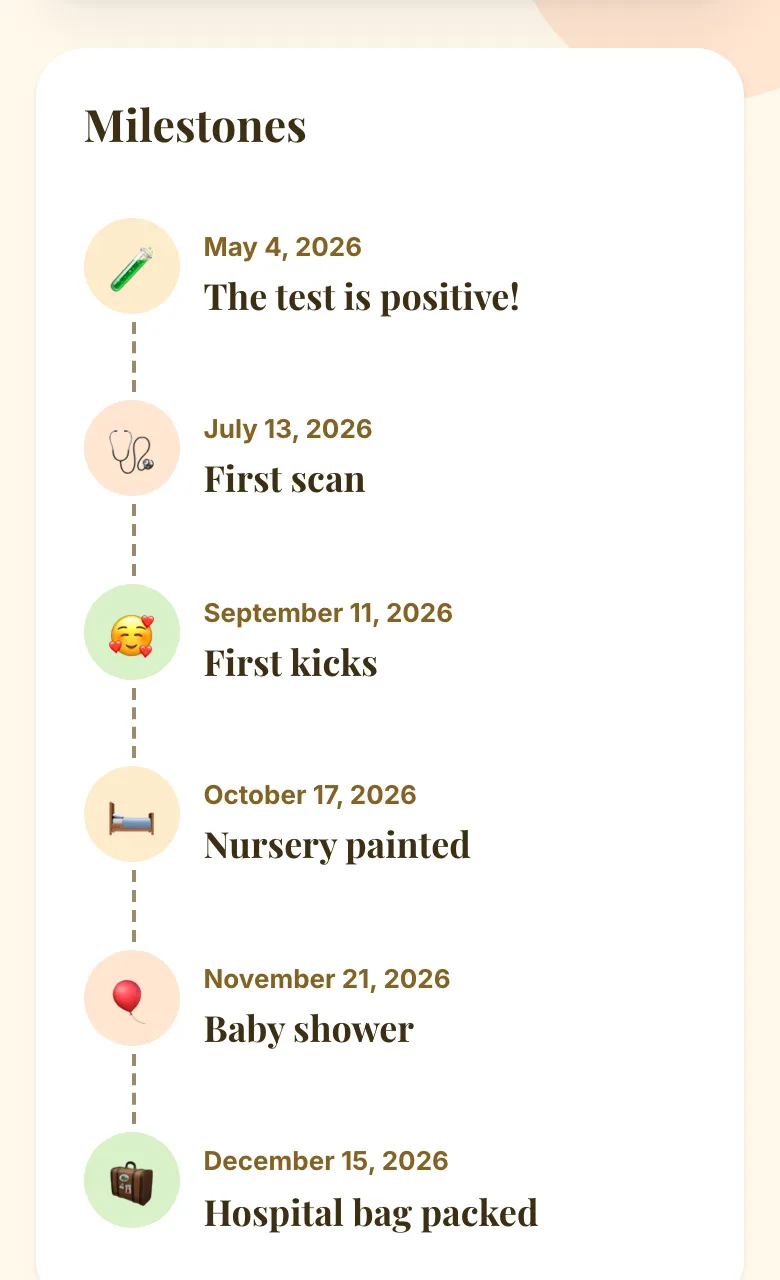
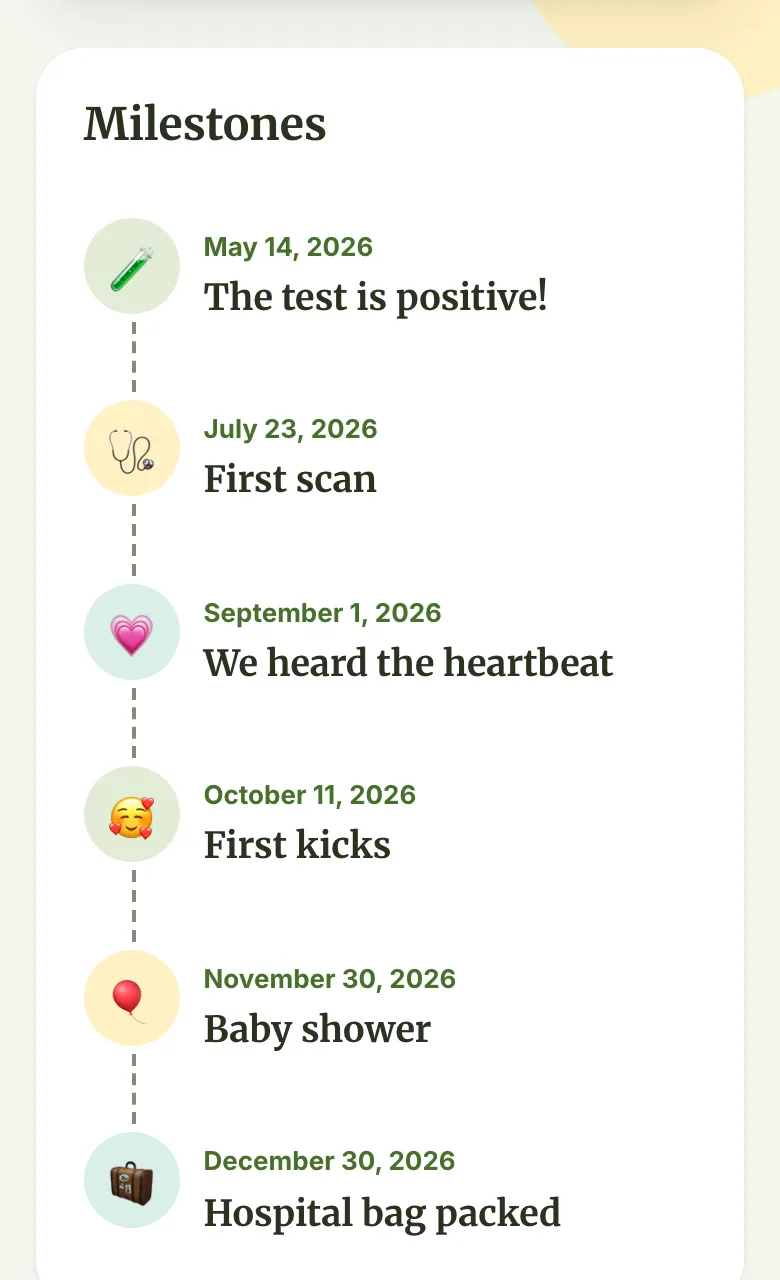
Give each home page language its own deck
The English home page shows English names and pages, the Italian one
Italian names and pages. Nine scenes build one card per language, so both
decks cover every Palette, Font, state and the Privacy settings.

diff --git a/src/lib/homeDeck.ts b/src/lib/homeDeck.ts
@@ -1,158 +1,167 @@
+import type { Lang } from './i18n.ts';
+
 /**
- * The cards of the home page's deck: each one a picture of a real Public page,
- * taken by `npm run deck` from a Site seeded with these values. The deck shows
- * every Palette and Font, the Waiting and Born states, Milestones and the
- * Privacy settings, in Italian and English, and leaves out the days past the
- * Due date: that page stays a surprise.
+ * The home page's deck: pictures of real Public pages, taken by `npm run deck`
+ * from Sites seeded with these values. Each Platform language has its own
+ * cards, with its own names and Public pages, and each deck shows every
+ * Palette and Font, the Waiting and Born states, Milestones and the Privacy
+ * settings. No card is past its Due date: that page stays a surprise.
  */
 
-export type HomeDeckCard = {
-  slug: string;
-  babyName: string;
+type PerLanguage = Record<Lang, string>;
+
+type Scene = {
+  babyName: PerLanguage;
   sex: 'female' | 'male';
-  languages: ('it' | 'en')[];
   showName: boolean;
   showSex: boolean;
   dueInDays: number;
   bornDaysAgo?: number;
   weight?: number;
   lengthCm?: number;
-  birthMessage?: { it?: string; en?: string };
-  milestones?: {
-    emoji: string;
-    label: { it?: string; en?: string };
-    inDays: number;
-    place?: { address: string; lat: number; lon: number };
-  }[];
-  pageName?: { it?: string; en?: string };
+  birthMessage?: PerLanguage;
+  milestones?: { emoji: string; label: PerLanguage; inDays: number }[];
+  pageName?: PerLanguage;
   theme: { palette: string; font: string };
   /** The picture starts at the Milestones, not at the top of the page. */
   atMilestones?: boolean;
 };
 
-const shown = { showName: true, showSex: true };
-const it = ['it'] as HomeDeckCard['languages'];
-const en = ['en'] as HomeDeckCard['languages'];
+export type HomeDeckCard = Omit<Scene, 'babyName' | 'birthMessage' | 'milestones' | 'pageName'> & {
+  slug: string;
+  babyName: string;
+  lang: Lang;
+  languages: Lang[];
+  birthMessage?: Partial<PerLanguage>;
+  milestones?: { emoji: string; label: Partial<PerLanguage>; inDays: number }[];
+  pageName?: Partial<PerLanguage>;
+};
 
-export const HOME_DECK_CARDS: HomeDeckCard[] = [
+const shown = { showName: true, showSex: true };
+
+const SCENES: Scene[] = [
   {
     ...shown,
-    slug: 'deck-emma',
-    babyName: 'Emma',
+    babyName: { en: 'Emma', it: 'Sofia' },
     sex: 'female',
-    languages: en,
     dueInDays: 42,
-    pageName: { en: 'Anna & Tom' },
+    pageName: { en: 'Anna & Tom', it: 'Anna e Tommaso' },
     theme: { palette: 'blush', font: 'quicksand' },
   },
   {
     ...shown,
-    slug: 'deck-leonardo',
-    babyName: 'Leonardo',
+    babyName: { en: 'Oliver', it: 'Leonardo' },
     sex: 'male',
-    languages: it,
     dueInDays: -2,
     bornDaysAgo: 3,
     weight: 3480,
     lengthCm: 52,
-    birthMessage: { it: 'Mamma e bimbo stanno benissimo!' },
-    pageName: { it: 'Chiara e Marco' },
+    birthMessage: { en: 'Mum and baby are doing great!', it: 'Mamma e bimbo stanno benissimo!' },
+    pageName: { en: 'Grace & Jack', it: 'Chiara e Marco' },
     theme: { palette: 'sky', font: 'playfair' },
   },
   {
     ...shown,
-    slug: 'deck-giulia',
-    babyName: 'Giulia',
+    babyName: { en: 'Charlotte', it: 'Giulia' },
     sex: 'female',
-    languages: it,
     dueInDays: 75,
     milestones: [
-      { emoji: '🧪', label: { it: 'Il test è positivo!' }, inDays: -170 },
-      { emoji: '🩺', label: { it: 'Prima ecografia' }, inDays: -100 },
-      { emoji: '💗', label: { it: 'Abbiamo sentito il cuore' }, inDays: -60 },
-      { emoji: '🥰', label: { it: 'Primi calcetti' }, inDays: -20 },
-      { emoji: '🎈', label: { it: 'Baby shower' }, inDays: 30 },
-      { emoji: '🧳', label: { it: 'Valigia pronta' }, inDays: 60 },
+      { emoji: '🧪', label: { en: 'The test is positive!', it: 'Il test è positivo!' }, inDays: -170 },
+      { emoji: '🩺', label: { en: 'First scan', it: 'Prima ecografia' }, inDays: -100 },
+      { emoji: '💗', label: { en: 'We heard the heartbeat', it: 'Abbiamo sentito il cuore' }, inDays: -60 },
+      { emoji: '🥰', label: { en: 'First kicks', it: 'Primi calcetti' }, inDays: -20 },
+      { emoji: '🎈', label: { en: 'Baby shower', it: 'Baby shower' }, inDays: 30 },
+      { emoji: '🧳', label: { en: 'Hospital bag packed', it: 'Valigia pronta' }, inDays: 60 },
     ],
     atMilestones: true,
     theme: { palette: 'sage', font: 'merriweather' },
   },
   {
     ...shown,
-    slug: 'deck-oliver',
-    babyName: 'Oliver',
+    babyName: { en: 'Noah', it: 'Tommaso' },
     sex: 'male',
-    languages: en,
     dueInDays: 1,
     bornDaysAgo: 10,
     weight: 3620,
     lengthCm: 51,
-    birthMessage: { en: 'Everyone is doing well, and nobody is sleeping.' },
-    pageName: { en: 'Grace & Jack' },
+    birthMessage: { en: 'Everyone is doing well, and nobody is sleeping.', it: 'Stiamo tutti bene, ma nessuno dorme.' },
+    pageName: { en: 'Lily & Sam', it: 'Marta e Luca' },
     theme: { palette: 'midnight', font: 'poppins' },
   },
   {
-    slug: 'deck-secret',
-    babyName: 'Bianca',
+    babyName: { en: 'Alice', it: 'Bianca' },
     sex: 'female',
-    languages: it,
     showName: false,
     showSex: false,
     dueInDays: 28,
-    pageName: { it: 'Elena e Paolo' },
+    pageName: { en: 'Ella & Ben', it: 'Elena e Paolo' },
     theme: { palette: 'lavender', font: 'inter' },
   },
   {
     ...shown,
-    slug: 'deck-charlotte',
-    babyName: 'Charlotte',
+    babyName: { en: 'Olivia', it: 'Ginevra' },
     sex: 'female',
-    languages: en,
     dueInDays: 60,
     milestones: [
-      { emoji: '🧪', label: { en: 'The test is positive!' }, inDays: -180 },
-      { emoji: '🩺', label: { en: 'First scan' }, inDays: -110 },
-      { emoji: '🥰', label: { en: 'First kicks' }, inDays: -50 },
-      { emoji: '🛏', label: { en: 'Nursery painted' }, inDays: -14 },
-      { emoji: '🎈', label: { en: 'Baby shower' }, inDays: 21 },
-      { emoji: '🧳', label: { en: 'Hospital bag packed' }, inDays: 45 },
+      { emoji: '🧪', label: { en: 'The test is positive!', it: 'Il test è positivo!' }, inDays: -180 },
+      { emoji: '🩺', label: { en: 'First scan', it: 'Prima ecografia' }, inDays: -110 },
+      { emoji: '🥰', label: { en: 'First kicks', it: 'Primi calcetti' }, inDays: -50 },
+      { emoji: '🛏', label: { en: 'Nursery painted', it: 'Cameretta pronta' }, inDays: -14 },
+      { emoji: '🎈', label: { en: 'Baby shower', it: 'Baby shower' }, inDays: 21 },
+      { emoji: '🧳', label: { en: 'Hospital bag packed', it: 'Valigia pronta' }, inDays: 45 },
     ],
     atMilestones: true,
     theme: { palette: 'sunshine', font: 'playfair' },
   },
   {
     ...shown,
-    slug: 'deck-matteo',
-    babyName: 'Matteo',
+    babyName: { en: 'James', it: 'Matteo' },
     sex: 'male',
-    languages: it,
     dueInDays: 16,
     theme: { palette: 'midnight', font: 'quicksand' },
   },
   {
     ...shown,
-    slug: 'deck-aurora',
-    babyName: 'Aurora',
+    babyName: { en: 'Amelia', it: 'Aurora' },
     sex: 'female',
-    languages: it,
     dueInDays: 2,
     bornDaysAgo: 6,
     weight: 3150,
     lengthCm: 49,
-    birthMessage: { it: 'Benvenuta, piccola Aurora!' },
+    birthMessage: { en: 'Welcome, little Amelia!', it: 'Benvenuta, piccola Aurora!' },
     theme: { palette: 'blush', font: 'poppins' },
   },
   {
     ...shown,
-    slug: 'deck-henry',
-    babyName: 'Henry',
+    babyName: { en: 'Henry', it: 'Lorenzo' },
     sex: 'male',
-    languages: en,
     dueInDays: 94,
-    pageName: { en: 'Lily & Sam' },
+    pageName: { en: 'Kate & Will', it: 'Sara e Davide' },
     theme: { palette: 'sage', font: 'inter' },
   },
 ];
+
+function sceneCard(scene: Scene, lang: Lang): HomeDeckCard {
+  const { babyName, birthMessage, milestones, pageName, ...rest } = scene;
+  return {
+    ...rest,
+    slug: `deck-${babyName[lang].toLowerCase()}`,
+    babyName: babyName[lang],
+    lang,
+    languages: [lang],
+    ...(birthMessage ? { birthMessage: { [lang]: birthMessage[lang] } } : {}),
+    ...(milestones ? { milestones: milestones.map((m) => ({ ...m, label: { [lang]: m.label[lang] } })) } : {}),
+    ...(pageName ? { pageName: { [lang]: pageName[lang] } } : {}),
+  };
+}
+
+/** The cards of one Platform language's deck, in the order they come up. */
+export function homeDeckCards(lang: Lang): HomeDeckCard[] {
+  return SCENES.map((scene) => sceneCard(scene, lang));
+}
+
+/** Every card of every language, for seeding the Sites and taking the pictures. */
+export const HOME_DECK_CARDS: HomeDeckCard[] = [...homeDeckCards('en'), ...homeDeckCards('it')];
 
 /** Where the home page finds a card's picture. */
 export function homeDeckImage(card: Pick<HomeDeckCard, 'slug'>): string {

diff --git a/src/lib/homeDeck.test.ts b/src/lib/homeDeck.test.ts
@@ -1,34 +1,40 @@
 import assert from 'node:assert/strict';
 import { existsSync } from 'node:fs';
 import { test } from 'node:test';
-import { HOME_DECK_CARDS, homeDeckImage } from './homeDeck.ts';
+import { HOME_DECK_CARDS, homeDeckCards, homeDeckImage } from './homeDeck.ts';
+import { LANGS } from './i18n.ts';
 import { FONTS, PALETTES } from './theme.ts';
 
-test('the deck shows every Palette and Font', () => {
-  assert.deepEqual(
-    new Set(HOME_DECK_CARDS.map((card) => card.theme.palette)),
-    new Set(PALETTES.map((palette) => palette.id))
-  );
-  assert.deepEqual(new Set(HOME_DECK_CARDS.map((card) => card.theme.font)), new Set(FONTS.map((font) => font.id)));
-});
+for (const lang of LANGS) {
+  const cards = homeDeckCards(lang);
+
+  test(`the ${lang} deck speaks only ${lang}`, () => {
+    assert.ok(cards.every((card) => card.lang === lang && card.languages.join() === lang));
+  });
+
+  test(`the ${lang} deck shows every Palette and Font`, () => {
+    assert.deepEqual(new Set(cards.map((card) => card.theme.palette)), new Set(PALETTES.map((p) => p.id)));
+    assert.deepEqual(new Set(cards.map((card) => card.theme.font)), new Set(FONTS.map((f) => f.id)));
+  });
+
+  test(`the ${lang} deck has names for girls and boys`, () => {
+    assert.deepEqual(new Set(cards.filter((c) => c.showName).map((c) => c.sex)), new Set(['female', 'male']));
+  });
+
+  test(`the ${lang} deck shows the Born state, Milestones and the Privacy settings`, () => {
+    assert.ok(cards.some((card) => card.bornDaysAgo !== undefined));
+    assert.ok(cards.some((card) => card.atMilestones));
+    assert.ok(cards.some((card) => !card.showName && !card.showSex));
+  });
+}
 
 test('no card is past its Due date, which stays a surprise', () => {
   const waiting = HOME_DECK_CARDS.filter((card) => card.bornDaysAgo === undefined);
   assert.ok(waiting.every((card) => card.dueInDays > 0));
 });
 
-test('the deck has Italian and English names, for girls and boys', () => {
-  const names = new Set(HOME_DECK_CARDS.filter((c) => c.showName).map((c) => `${c.languages[0]}-${c.sex}`));
-  assert.deepEqual(names, new Set(['it-female', 'it-male', 'en-female', 'en-male']));
-});
-
-test('the deck shows the Born state, Milestones and the Privacy settings', () => {
-  assert.ok(HOME_DECK_CARDS.some((card) => card.bornDaysAgo !== undefined));
-  assert.ok(HOME_DECK_CARDS.some((card) => card.atMilestones));
-  assert.ok(HOME_DECK_CARDS.some((card) => !card.showName && !card.showSex));
-});
-
-test('every card has its picture', () => {
+test('every card has its own Slug and picture', () => {
+  assert.equal(new Set(HOME_DECK_CARDS.map((card) => card.slug)).size, HOME_DECK_CARDS.length);
   for (const card of HOME_DECK_CARDS) {
     assert.ok(existsSync(`public${homeDeckImage(card)}`), card.slug);
   }

diff --git a/src/components/HomeDeck.tsx b/src/components/HomeDeck.tsx
@@ -1,7 +1,8 @@
 'use client';
 
 import { type CSSProperties, useEffect, useRef, useState } from 'react';
-import { HOME_DECK_CARDS, homeDeckImage } from '@/lib/homeDeck';
+import { homeDeckCards, homeDeckImage } from '@/lib/homeDeck';
+import type { Lang } from '@/lib/i18n';
 import styles from './HomeDeck.module.css';
 
 /** How long a card stays on top. */
@@ -15,7 +16,7 @@ const BEHIND = 3;
  * hidden tab, and for anyone who asks for reduced motion. The pictures only
  * decorate the pitch beside them, so screen readers skip the whole pile.
  */
-export function HomeDeck() {
+export function HomeDeck({ lang }: { lang: Lang }) {
   const [turn, setTurn] = useState(0);
   const resting = useRef<boolean>(false);
 
@@ -29,7 +30,8 @@ export function HomeDeck() {
     return () => clearInterval(timer);
   }, []);
 
-  const count = HOME_DECK_CARDS.length;
+  const cards = homeDeckCards(lang);
+  const count = cards.length;
   return (
     <div
       className={styles.deck}
@@ -41,7 +43,7 @@ export function HomeDeck() {
         resting.current = false;
       }}
     >
-      {HOME_DECK_CARDS.map((card, index) => {
+      {cards.map((card, index) => {
         // -1 is the card that just left, 0 the top one.
         const place = ((((index - turn + 1) % count) + count) % count) - 1;
         if (place > BEHIND) {

diff --git a/src/components/HomeDeck.stories.tsx b/src/components/HomeDeck.stories.tsx
@@ -5,6 +5,8 @@ const meta = {
   title: 'Pages/HomeDeck',
   component: HomeDeck,
   tags: ['autodocs'],
+  args: { lang: 'en' },
+  argTypes: { lang: { control: 'inline-radio', options: ['en', 'it'] } },
 } satisfies Meta<typeof HomeDeck>;
 
 export default meta;

diff --git a/src/app/page.tsx b/src/app/page.tsx
@@ -23,7 +23,7 @@ export default async function MarketingPage() {
           </div>
         </div>
         <div className={styles.preview}>
-          <HomeDeck />
+          <HomeDeck lang={lang} />
         </div>
       </div>
     </PageShell>

diff --git a/README.md b/README.md
@@ -191,8 +191,8 @@ loading baby, or an emoji its Owner picks, drawn on the Site's Palette (see
 
 ### Home page deck
 
-The deck beside the home page's pitch shows pictures of real Public pages. The
-cards live in `src/lib/homeDeck.ts`, and `npm run seed` creates a Site for each.
+The deck beside the home page's pitch shows pictures of real Public pages, each
+Platform language with its own cards. The cards live in `src/lib/homeDeck.ts`, and `npm run seed` creates a Site for each.
 With `npm run dev` running, `npm run deck` retakes the pictures into
 `public/home-deck/`. A picture keeps the dates of the day it was taken, so a
 change to the Public page or a Due date gone by calls for a new run.
